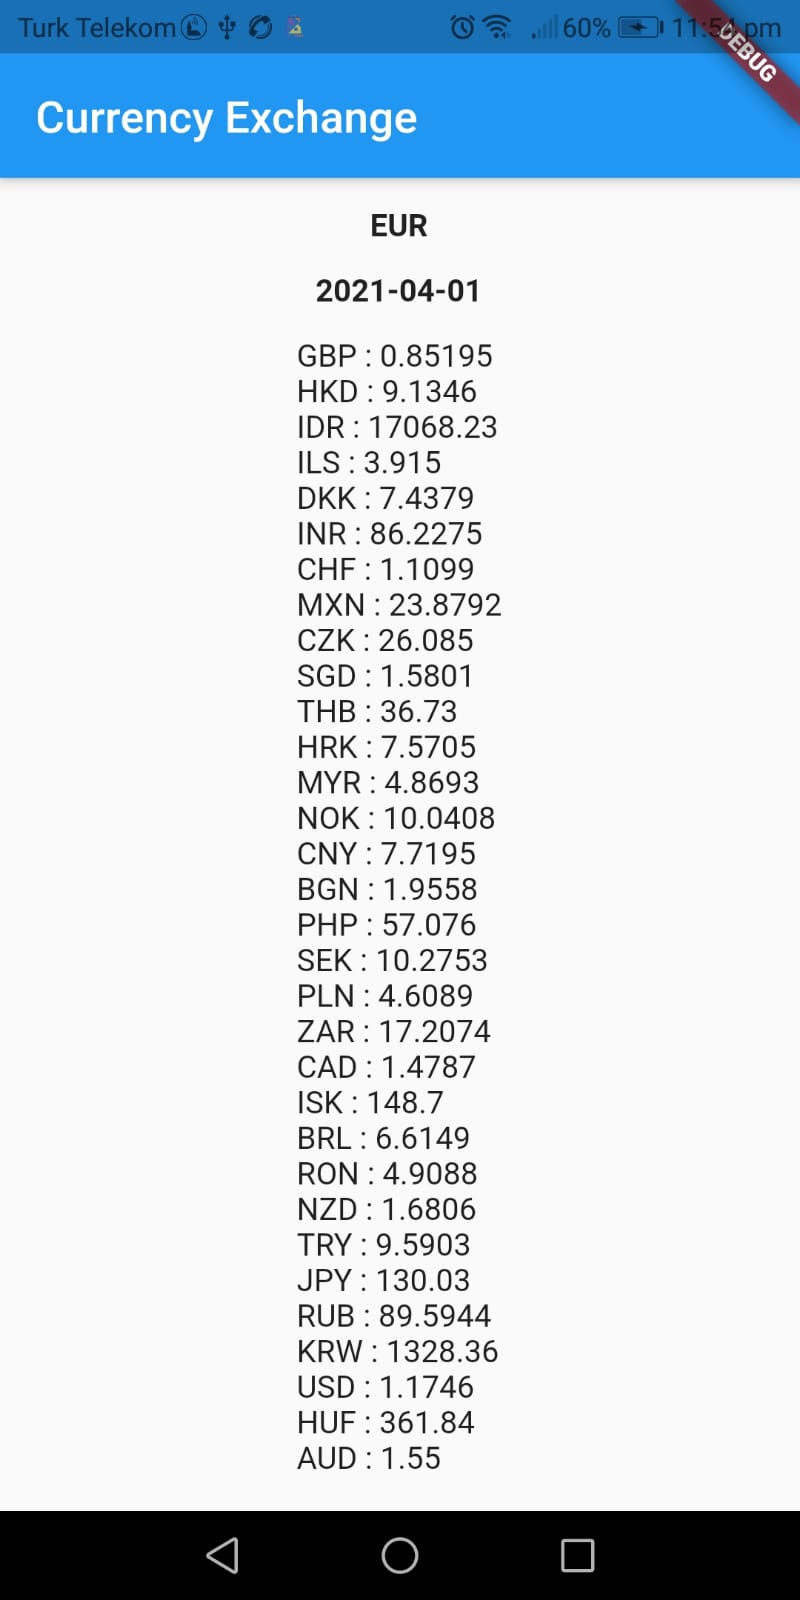
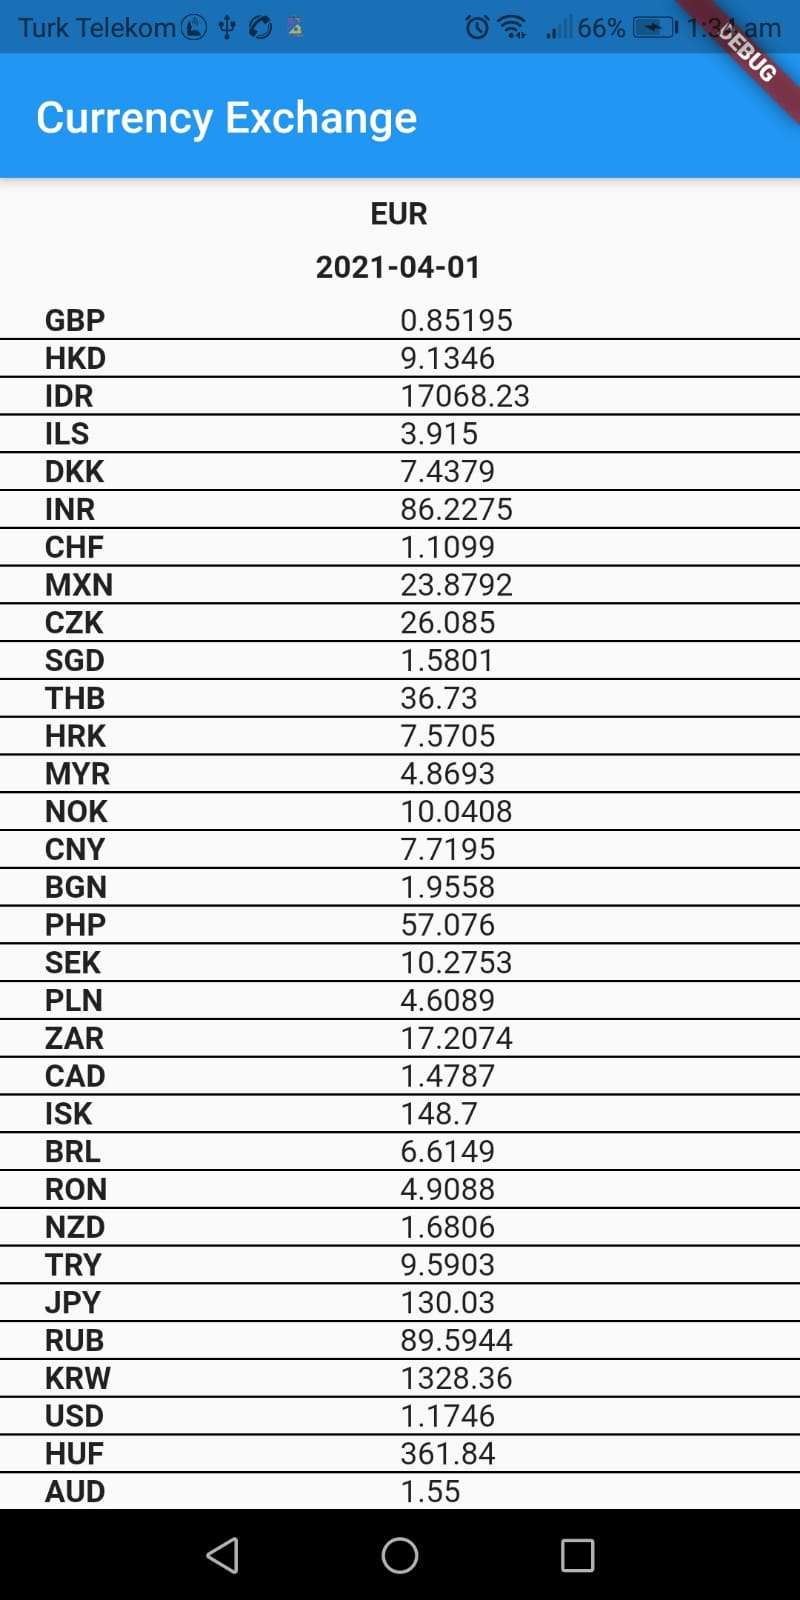
Display Currencies in ListView

Changed region(s): [[0.0, 0.125, 1.0, 0.9375], [0.6875, 0.0, 0.8438, 0.0312], [0.5625, 0.0, 0.6562, 0.0312]]

diff --git a/lib/MyHomePage.dart b/lib/MyHomePage.dart
@@ -48,7 +48,41 @@ class CurrencyExchangePage extends StatelessWidget {
           style: TextStyle(fontWeight: FontWeight.bold),),
         Spacer(),
 
-        Text(this.currencyExchange.rates),
+        ListView.builder(
+          shrinkWrap : true,
+          itemCount: currencyExchange.ratesList.length,
+          itemBuilder: (context, index) {
+            return Container(
+              // add divider : line
+              decoration: BoxDecoration( //                    <-- BoxDecoration
+                border: Border(bottom: BorderSide()),
+              ),
+              child: CurrencyBox(item: currencyExchange.ratesList[index]),
+            );
+          },
+        ),
+
+        // Text(this.currencyExchange.rates),
+      ],
+    );
+  }
+}
+
+class CurrencyBox extends StatelessWidget {
+  CurrencyBox({Key key, this.item}) : super(key: key);
+  final Currency item;
+
+  Widget build(BuildContext context) {
+    return Row(
+      children: <Widget>[
+        Expanded(child: Padding(
+          padding: EdgeInsets.only(left: 20),
+          child: Text(this.item.currencyName,
+              style: TextStyle(fontWeight: FontWeight.bold)),
+        )),
+
+        Expanded(
+            child: Text(this.item.currencyRate.toString()))
       ],
     );
   }

diff --git a/lib/CurrencyExchange.dart b/lib/CurrencyExchange.dart
@@ -1,27 +1,38 @@
 class CurrencyExchange {
   String base;
-  String rates;
+  // String rates;
   String date;
+  List<Currency> ratesList;
 
   CurrencyExchange({
     this.base,
-    this.rates,
-    this.date
+    // this.rates,
+    this.date,
+    this.ratesList
   });
 
   factory CurrencyExchange.fromJson(Map<String, dynamic> parsedJson){
 
     // Convert InternalLinkedHashMap to String value
-    String rates_str = "";
+    // String rates_str = "";
+    List<Currency> ratesList = new List();
+
     Map<String, dynamic> rates = parsedJson['rates'];
-    rates.forEach((k,v) => rates_str += k + " : " + v.toString() + "\n");
+    rates.forEach((k,v) => ratesList.add(new Currency(k, v)));
 
     return CurrencyExchange(
         base: parsedJson['base'],
-        rates : rates_str,
-        date : parsedJson ['date']
+        // rates : rates_str,
+        date : parsedJson ['date'],
+        ratesList : ratesList
     );
   }
+}
 
+class Currency {
+  String currencyName;
+  double currencyRate;
+
+  Currency(this.currencyName, this.currencyRate);
 }
 
